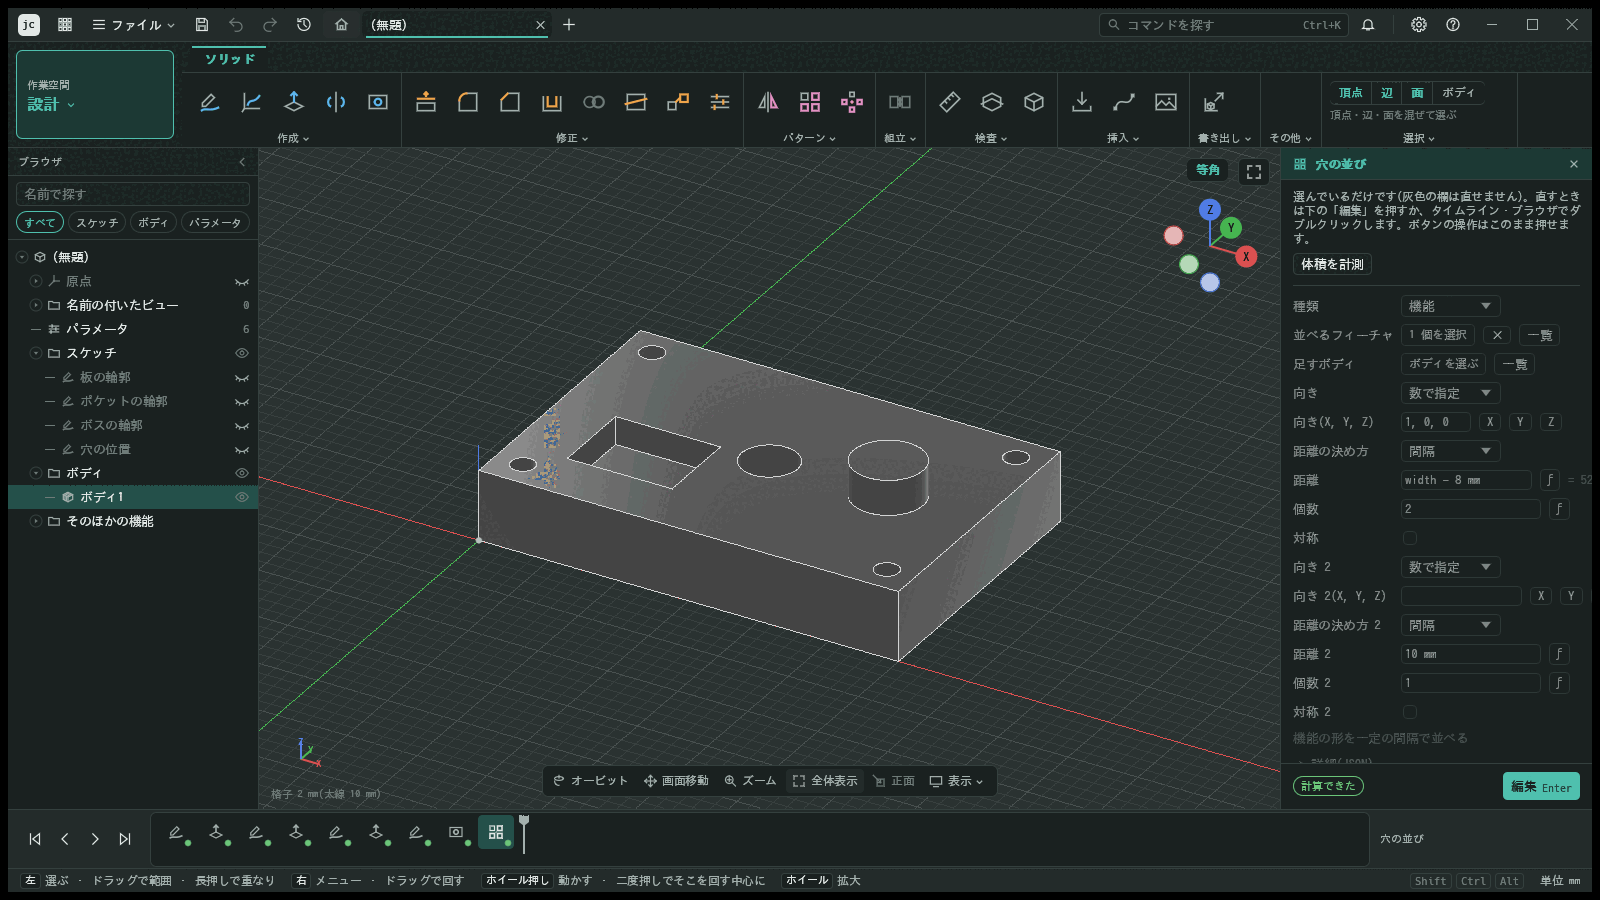
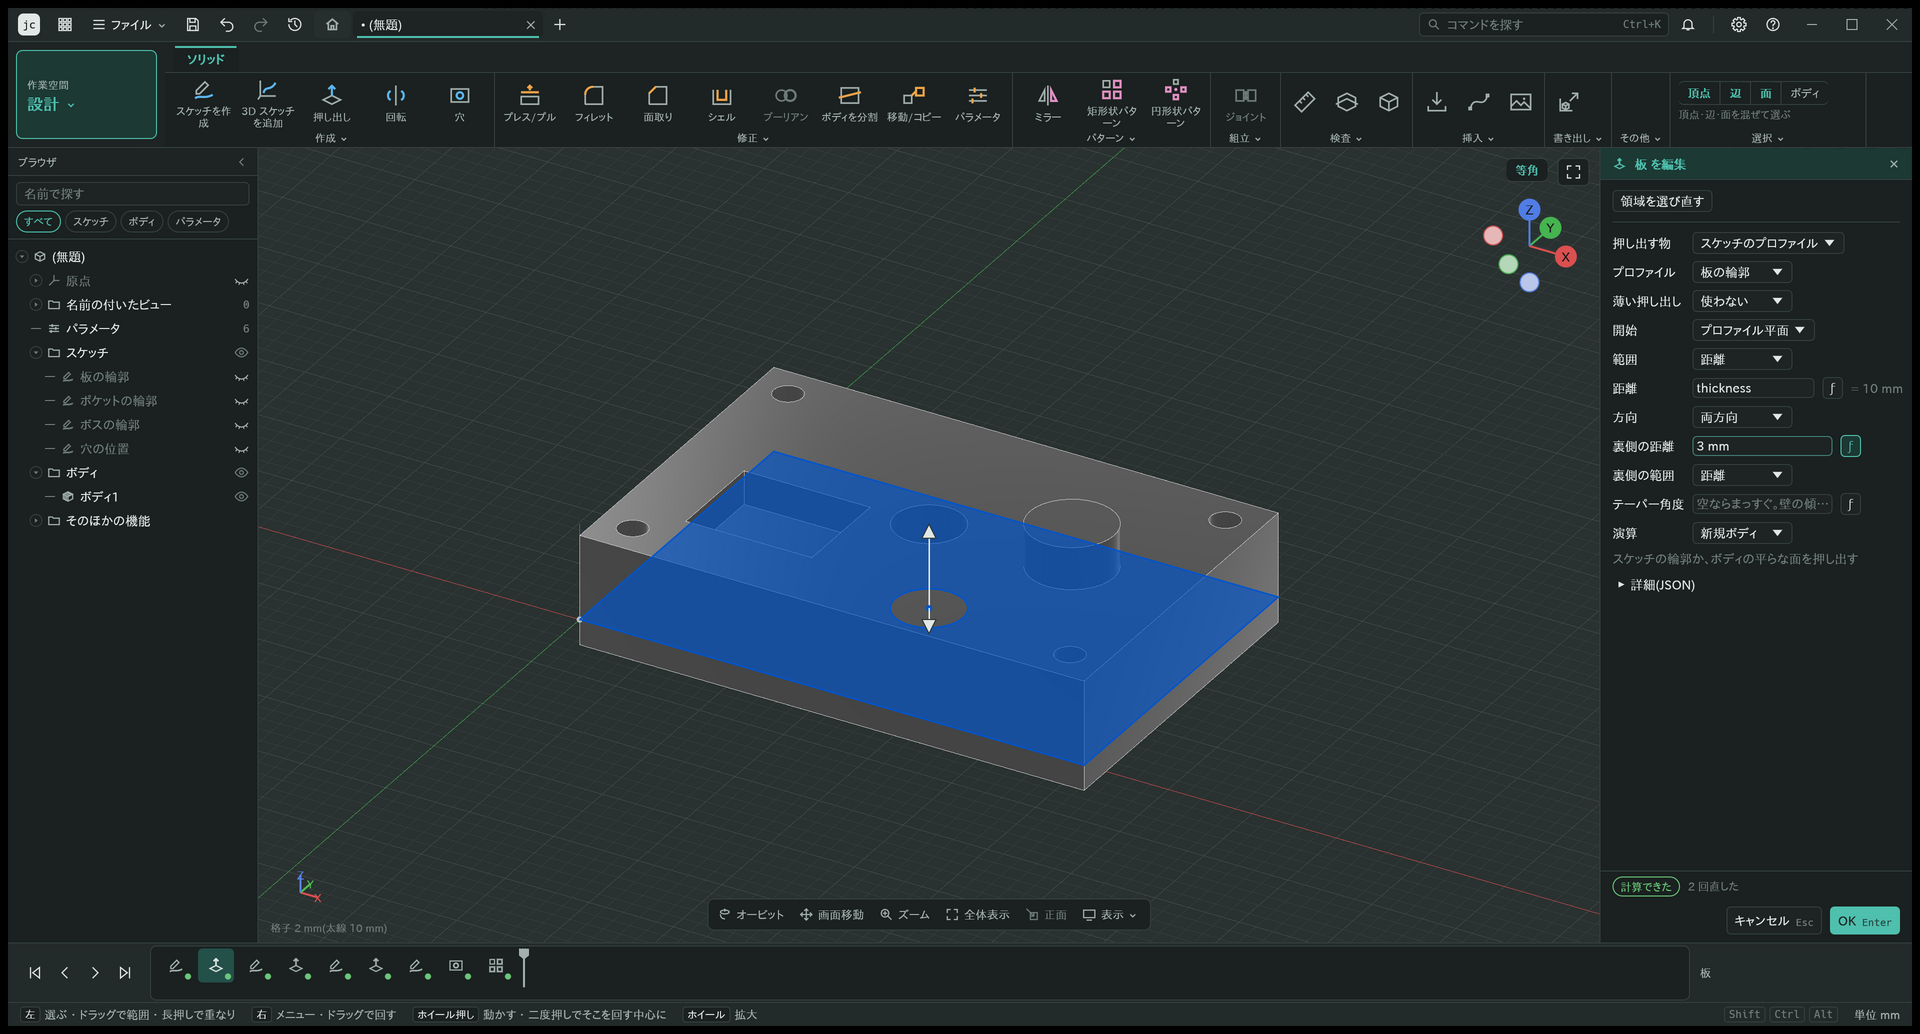
README の画面写真を減色していない新しい写真に替える
前の 2 枚は 256 色以下のパレットに減色した PNG で、ぼかしやグラデーションに点々の崩れが出ていた。
4K・200% 相当で撮った写真を 1920×1034 に縮め、色を減らさない RGB の PNG で置く。

Claude-Session: https://claude.ai/code/session_01S6oxnvgfUBcRpB8QhwgZCS

diff --git a/README.md b/README.md
@@ -10,13 +10,13 @@
   日本語 · <a href="README.en.md">English</a>
 </p>
 
-![設計の作業空間で、穴とポケットのある板の見本を開き、穴の並びを選んだところ](docs/screenshots/design.png)
+![設計の作業空間で、見本の板の押し出しを編集し、両方向に伸ばす予告を出したところ](docs/screenshots/design.png)
 
-*設計の作業空間。上に作業空間ごとのツールバー、左にブラウザ、下にタイムライン、右に編集パネル。見本の板の穴の並び(パターン)を選んでいる。*
+*設計の作業空間。上に作業空間ごとのツールバー、左にブラウザ、下にタイムライン、右に編集パネル。見本の板の押し出しを開き、方向を「両方向」にして裏側の距離を打つと、変えた後の形が青く予告される。*
 
-![加工の作業空間で、同じ板のセットアップの経路を重ねて出したところ](docs/screenshots/machining.png)
+![加工の作業空間で、3D 粗取りの欄を直しながら経路を予告しているところ](docs/screenshots/machining.png)
 
-*加工の作業空間。同じ板からフェイス・輪郭・ポケット・穴あけの経路を作り、ストック・原点・機械の作業範囲と重ねて出している。下の帯で加工を押すと、その加工の後の形が出る。*
+*加工の作業空間。左のセットアップの木に設計の形から作った加工が並ぶ。3D 粗取りの輪を渦巻きにつなぎ角を丸めると、経路が作り直され、安全高さ・送り高さ・トップ高さ・ボトム高さの札とともに出る。*
 
 まだ開発の途中で、配布用の実行ファイルはない。ソースから組み立てて使う。
 

diff --git a/README.en.md b/README.en.md
@@ -10,13 +10,13 @@
   <a href="README.md">日本語</a> · English
 </p>
 
-![The Design workspace with the sample plate with holes and a pocket open, and its hole pattern selected](docs/screenshots/design.png)
+![The Design workspace editing the extrusion of the sample plate, previewing it in both directions](docs/screenshots/design.png)
 
-*The Design workspace: a tabbed toolbar per workspace at the top, the browser on the left, the timeline at the bottom and the edit panel on the right. The user interface is currently in Japanese only.*
+*The Design workspace: a tabbed toolbar per workspace at the top, the browser on the left, the timeline at the bottom and the edit panel on the right. Here the extrusion of the sample plate is being edited: setting the direction to both sides and typing the back distance previews the new shape in blue. The user interface is currently in Japanese only.*
 
-![The Machining workspace showing the toolpaths of a setup for the same plate](docs/screenshots/machining.png)
+![The Machining workspace previewing a 3D roughing toolpath while its settings are edited](docs/screenshots/machining.png)
 
-*The Machining workspace: facing, contour, pocket and drilling toolpaths for the same plate, drawn with the stock, the work origin and the machine's travel. Clicking an operation in the strip at the bottom shows the shape after that operation.*
+*The Machining workspace: operations made from the design model are listed in the setup tree on the left. Linking the 3D roughing passes into a spiral and rounding its corners regenerates the toolpath, shown with the clearance, retract, top and bottom heights.*
 
 This is work in progress and there are no prebuilt downloads yet. Build it from source.
 
